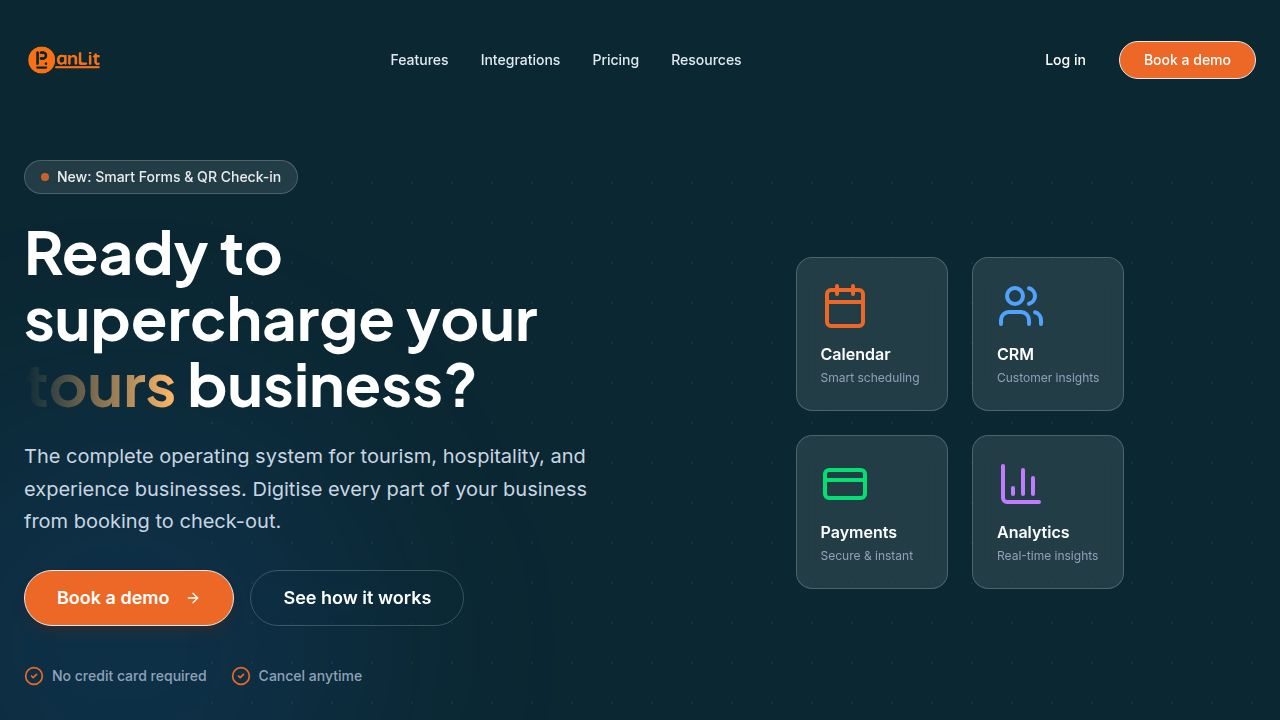
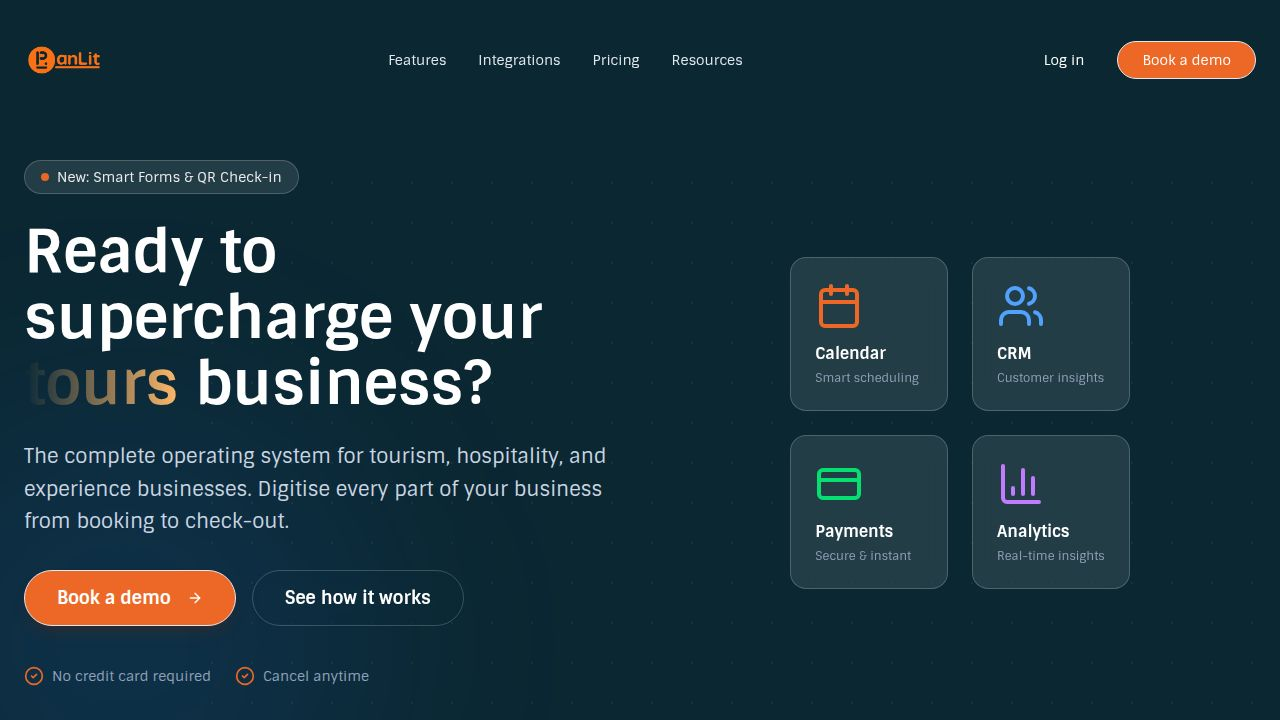
Update site font to Sintony for all text elements
Update client/index.html to include Sintony font from Google Fonts and update CSS variables in client/src/index.css to use Sintony for both sans-serif and heading fonts.

Replit-Commit-Author: Agent
Replit-Commit-Session-Id: fe9462af-0e89-4b0e-af36-85f9b2ed8215
Replit-Commit-Checkpoint-Type: full_checkpoint
Replit-Commit-Event-Id: 0cbb9ea7-2125-4c15-97f1-18aeb24b354d
Replit-Commit-Screenshot-Url: https://storage.googleapis.com/screenshot-production-us-central1/a373c8f0-a678-4f25-9078-90ab245125a7/fe9462af-0e89-4b0e-af36-85f9b2ed8215/N6XUZeI
Replit-Helium-Checkpoint-Created: true

diff --git a/client/index.html b/client/index.html
@@ -15,7 +15,7 @@
     <link rel="icon" type="image/png" href="/favicon.png" />
     <link rel="preconnect" href="https://fonts.googleapis.com">
     <link rel="preconnect" href="https://fonts.gstatic.com" crossorigin>
-    <link href="https://fonts.googleapis.com/css2?family=Inter:wght@400;500;600;700&family=Plus+Jakarta+Sans:wght@400;500;600;700;800&display=swap" rel="stylesheet">
+    <link href="https://fonts.googleapis.com/css2?family=Sintony:wght@400;700&display=swap" rel="stylesheet">
   </head>
   <body>
     <div id="root"></div>

diff --git a/client/src/index.css b/client/src/index.css
@@ -33,8 +33,8 @@
   --radius-md: calc(var(--radius) - 2px);
   --radius-lg: var(--radius);
 
-  --font-sans: "Inter", sans-serif;
-  --font-heading: "Plus Jakarta Sans", sans-serif;
+  --font-sans: "Sintony", sans-serif;
+  --font-heading: "Sintony", sans-serif;
 }
 
 :root {
